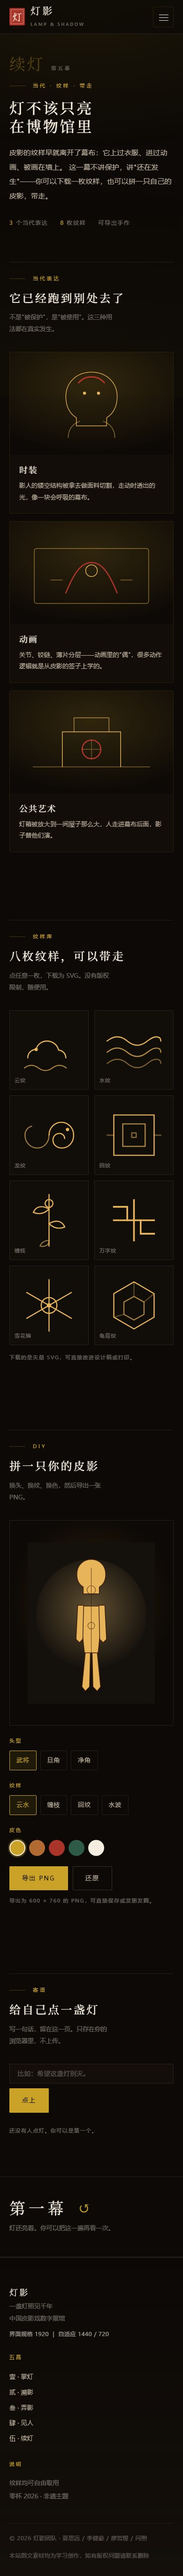
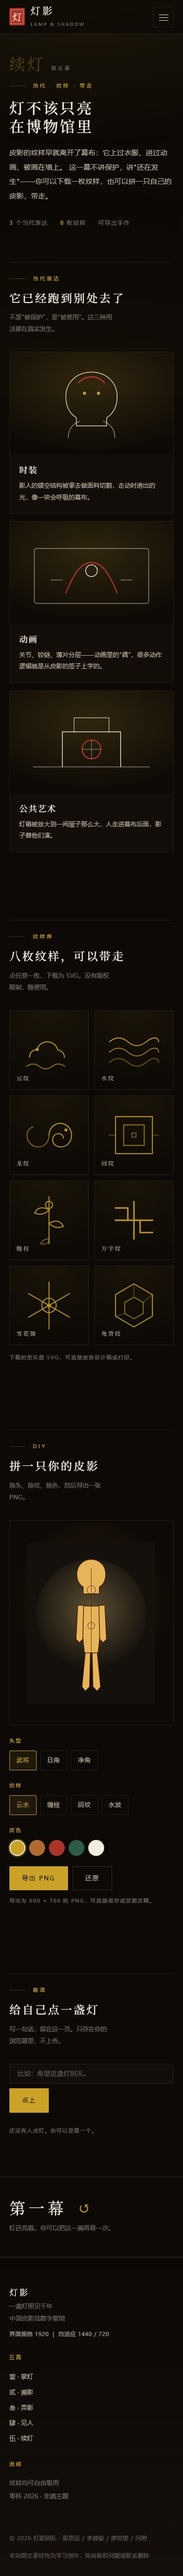
style: 影窗木框与剧场场景重绘，纹样卡与 SVG 色值收口
- 影窗加 14px 深木框 + 内侧金线 + 上下内阴影，影子终于像装进窗里
- 剧场场景重绘：月轮、祥云、三层山、台沿栏杆、双影人（冠与头衔接修正）
- 三出戏用 ::after 晕色 + scene-accent 分组区分（劈山红光 / 断桥绿意）
- 纹样卡加暖底渐变、宋体名称、悬停微放大
- HTML 内联 SVG 的旧金色 #E8B45A 等全部换为新调色板（17 处）
- 回归：30 组 0 报错 0 溢出

diff --git a/web/future.html b/web/future.html
@@ -72,12 +72,12 @@
       <div class="cases">
         <article class="case reveal">
           <div class="case__art" aria-hidden="true">
-            <svg viewBox="0 0 280 175" width="100%" height="100%" fill="none" stroke="#E8B45A" stroke-width="1.2" stroke-linecap="round" stroke-linejoin="round">
+            <svg viewBox="0 0 280 175" width="100%" height="100%" fill="none" stroke="currentColor" stroke-width="1.2" stroke-linecap="round" stroke-linejoin="round">
               <path d="M140 34c26 0 44 18 44 42 0 18-8 30-18 36v14h-52v-14c-10-6-18-18-18-36 0-24 18-42 44-42z" opacity=".9"/>
               <path d="M100 146c0-14 8-24 20-28M180 146c0-14-8-24-20-28" opacity=".6"/>
-              <path d="M118 52c8-8 14-10 22-10s14 2 22 10" stroke="#B4352B" stroke-width="2.4"/>
-              <circle cx="128" cy="70" r="2.6" fill="#E8B45A" stroke="none"/>
-              <circle cx="152" cy="70" r="2.6" fill="#E8B45A" stroke="none"/>
+              <path d="M118 52c8-8 14-10 22-10s14 2 22 10" stroke="#A8342A" stroke-width="2.4"/>
+              <circle cx="128" cy="70" r="2.6" fill="#C9A227" stroke="none"/>
+              <circle cx="152" cy="70" r="2.6" fill="#C9A227" stroke="none"/>
             </svg>
           </div>
           <div class="case__body">
@@ -88,9 +88,9 @@
 
         <article class="case reveal">
           <div class="case__art" aria-hidden="true">
-            <svg viewBox="0 0 280 175" width="100%" height="100%" fill="none" stroke="#E8B45A" stroke-width="1.2" stroke-linecap="round">
+            <svg viewBox="0 0 280 175" width="100%" height="100%" fill="none" stroke="currentColor" stroke-width="1.2" stroke-linecap="round">
               <rect x="42" y="46" width="196" height="94" rx="4" opacity=".55"/>
-              <path d="M96 122c14-34 26-52 44-52s30 18 44 52" stroke="#B4352B" stroke-width="2"/>
+              <path d="M96 122c14-34 26-52 44-52s30 18 44 52" stroke="#A8342A" stroke-width="2"/>
               <path d="M70 100h20M190 100h20" opacity=".5"/>
               <circle cx="140" cy="84" r="10"/>
             </svg>
@@ -103,11 +103,11 @@
 
         <article class="case reveal">
           <div class="case__art" aria-hidden="true">
-            <svg viewBox="0 0 280 175" width="100%" height="100%" fill="none" stroke="#E8B45A" stroke-width="1.2" stroke-linecap="round">
+            <svg viewBox="0 0 280 175" width="100%" height="100%" fill="none" stroke="currentColor" stroke-width="1.2" stroke-linecap="round">
               <path d="M40 130h200" opacity=".5"/>
               <path d="M90 130V70h100v60" />
               <path d="M110 70V46h60v24" opacity=".7"/>
-              <circle cx="140" cy="100" r="16" stroke="#B4352B" stroke-width="2"/>
+              <circle cx="140" cy="100" r="16" stroke="#A8342A" stroke-width="2"/>
               <path d="M124 100h32M140 84v32" opacity=".4"/>
             </svg>
           </div>
@@ -132,16 +132,16 @@
 
       <div class="patterns" id="patterns">
         <button class="pattern" type="button" data-name="云纹">
-          <svg viewBox="0 0 120 120" fill="none" stroke="#E8B45A" stroke-width="2" stroke-linecap="round">
+          <svg viewBox="0 0 120 120" fill="none" stroke="currentColor" stroke-width="2" stroke-linecap="round">
             <path d="M22 74c0-9 7-15 15-15 2-9 10-15 19-15 11 0 19 7 21 16 8 1 13 7 13 14"/>
             <path d="M16 92c8-6 17-6 25 0s17 6 25 0 17-6 25 0" opacity=".7"/>
-            <circle cx="37" cy="59" r="2" fill="#E8B45A"/>
+            <circle cx="37" cy="59" r="2" fill="#C9A227"/>
           </svg>
           <span class="pattern__name">云纹</span>
         </button>
 
         <button class="pattern" type="button" data-name="水纹">
-          <svg viewBox="0 0 120 120" fill="none" stroke="#E8B45A" stroke-width="2" stroke-linecap="round">
+          <svg viewBox="0 0 120 120" fill="none" stroke="currentColor" stroke-width="2" stroke-linecap="round">
             <path d="M12 44c12-10 24-10 36 0s24 10 36 0 24-10 24 0"/>
             <path d="M12 64c12-10 24-10 36 0s24 10 36 0 24-10 24 0" opacity=".75"/>
             <path d="M12 84c12-10 24-10 36 0s24 10 36 0 24-10 24 0" opacity=".5"/>
@@ -150,16 +150,16 @@
         </button>
 
         <button class="pattern" type="button" data-name="龙纹">
-          <svg viewBox="0 0 120 120" fill="none" stroke="#E8B45A" stroke-width="2" stroke-linecap="round">
+          <svg viewBox="0 0 120 120" fill="none" stroke="currentColor" stroke-width="2" stroke-linecap="round">
             <path d="M60 60c0-13 10-23 22-23s22 10 22 23-9 23-21 23c-9 0-16-6-16-14 0-7 5-12 12-12 5 0 9 4 9 9"/>
             <path d="M60 60c0 13-9 23-21 23S17 73 17 60c0-8 5-14 12-16" opacity=".65"/>
-            <circle cx="93" cy="50" r="2" fill="#E8B45A"/>
+            <circle cx="93" cy="50" r="2" fill="#C9A227"/>
           </svg>
           <span class="pattern__name">龙纹</span>
         </button>
 
         <button class="pattern" type="button" data-name="回纹">
-          <svg viewBox="0 0 120 120" fill="none" stroke="#E8B45A" stroke-width="2" stroke-linecap="square">
+          <svg viewBox="0 0 120 120" fill="none" stroke="currentColor" stroke-width="2" stroke-linecap="square">
             <path d="M24 24h72v72H24z"/>
             <path d="M40 40h40v40H40z" opacity=".75"/>
             <path d="M56 56h8v8h-8z" opacity=".55"/>
@@ -169,7 +169,7 @@
         </button>
 
         <button class="pattern" type="button" data-name="缠枝">
-          <svg viewBox="0 0 120 120" fill="none" stroke="#E8B45A" stroke-width="2" stroke-linecap="round">
+          <svg viewBox="0 0 120 120" fill="none" stroke="currentColor" stroke-width="2" stroke-linecap="round">
             <path d="M60 14v92"/>
             <path d="M60 40c-14-8-24-4-28 6 10 4 20 2 28-6z"/>
             <path d="M60 66c14-8 24-4 28 6-10 4-20 2-28-6z"/>
@@ -180,7 +180,7 @@
         </button>
 
         <button class="pattern" type="button" data-name="万字纹">
-          <svg viewBox="0 0 120 120" fill="none" stroke="#E8B45A" stroke-width="3" stroke-linecap="square">
+          <svg viewBox="0 0 120 120" fill="none" stroke="currentColor" stroke-width="3" stroke-linecap="square">
             <path d="M24 60h72M60 24v72"/>
             <path d="M24 36h24v24M96 84H72V60"/>
           </svg>
@@ -188,16 +188,16 @@
         </button>
 
         <button class="pattern" type="button" data-name="雪花锦">
-          <svg viewBox="0 0 120 120" fill="none" stroke="#E8B45A" stroke-width="2" stroke-linecap="round">
+          <svg viewBox="0 0 120 120" fill="none" stroke="currentColor" stroke-width="2" stroke-linecap="round">
             <path d="M60 14v92M20 37l80 46M100 37L20 83"/>
             <circle cx="60" cy="60" r="14"/>
-            <circle cx="60" cy="60" r="3" fill="#E8B45A"/>
+            <circle cx="60" cy="60" r="3" fill="#C9A227"/>
           </svg>
           <span class="pattern__name">雪花锦</span>
         </button>
 
         <button class="pattern" type="button" data-name="龟背纹">
-          <svg viewBox="0 0 120 120" fill="none" stroke="#E8B45A" stroke-width="2" stroke-linejoin="round">
+          <svg viewBox="0 0 120 120" fill="none" stroke="currentColor" stroke-width="2" stroke-linejoin="round">
             <path d="M60 18 96 39v42L60 102 24 81V39z"/>
             <path d="M60 44 78 54v22L60 86 42 76V54z" opacity=".7"/>
             <path d="M60 18v26M96 39 78 54M24 81l18-5" opacity=".35"/>
@@ -224,8 +224,8 @@
           <svg id="diySvg" viewBox="0 0 300 380" role="img" aria-label="DIY 皮影预览">
             <defs>
               <radialGradient id="diyGlow" cx="50%" cy="45%" r="55%">
-                <stop offset="0" stop-color="#F2C879" stop-opacity=".35"/>
-                <stop offset="1" stop-color="#F2C879" stop-opacity="0"/>
+                <stop offset="0" stop-color="#E0C27A" stop-opacity=".35"/>
+                <stop offset="1" stop-color="#E0C27A" stop-opacity="0"/>
               </radialGradient>
             </defs>
             <rect width="300" height="380" fill="#14100C"/>
@@ -288,10 +288,10 @@
           <div class="diy__group">
             <p class="diy__label">皮色</p>
             <div class="swatches" id="colorChoices">
-              <button class="swatch sw--lamp" type="button" data-color="#E8B45A" aria-pressed="true" aria-label="灯黄"></button>
+              <button class="swatch sw--lamp" type="button" data-color="#C9A227" aria-pressed="true" aria-label="灯黄"></button>
               <button class="swatch sw--ochre" type="button" data-color="#C97B32" aria-pressed="false" aria-label="赭石"></button>
-              <button class="swatch sw--cinnabar" type="button" data-color="#B4352B" aria-pressed="false" aria-label="朱砂"></button>
-              <button class="swatch sw--jade" type="button" data-color="#2E6B4F" aria-pressed="false" aria-label="青绿"></button>
+              <button class="swatch sw--cinnabar" type="button" data-color="#A8342A" aria-pressed="false" aria-label="朱砂"></button>
+              <button class="swatch sw--jade" type="button" data-color="#2E5B47" aria-pressed="false" aria-label="青绿"></button>
               <button class="swatch sw--paper" type="button" data-color="#F3EADC" aria-pressed="false" aria-label="纸白"></button>
             </div>
           </div>

diff --git a/web/play.html b/web/play.html
@@ -78,7 +78,7 @@
                 <defs>
                   <linearGradient id="leather" x1="0" y1="0" x2="0" y2="1">
                     <stop offset="0" stop-color="#F6D49A"/>
-                    <stop offset=".55" stop-color="#E8B45A"/>
+                    <stop offset=".55" stop-color="#C9A227"/>
                     <stop offset="1" stop-color="#B8722C"/>
                   </linearGradient>
                 </defs>
@@ -213,34 +213,71 @@
         <div class="screen">
           <div class="screen__scene" id="scene" data-scene="0">
             <svg viewBox="0 0 800 450" role="img" aria-label="影窗中的戏台画面">
-              <defs>
-                <linearGradient id="sky" x1="0" y1="0" x2="0" y2="1">
-                  <stop offset="0" stop-color="#F7DCAE"/>
-                  <stop offset="1" stop-color="#B06A2A"/>
-                </linearGradient>
-              </defs>
-              <rect width="800" height="450" fill="url(#sky)"/>
-              <circle cx="600" cy="110" r="64" fill="#FFF3DC" opacity=".35"/>
-              <circle cx="600" cy="110" r="36" fill="#FFFBF0" opacity=".9"/>
-              <path d="M0 320 L150 232 L268 318 L392 240 L520 326 L640 268 L800 340 V450 H0 Z" fill="#3A2010"/>
-              <path d="M0 372 L120 330 L240 376 L380 328 L520 382 L660 340 L800 386 V450 H0 Z" fill="#241408"/>
-              <g opacity=".9" transform="translate(120 120) scale(.9)">
-                <path d="M40 150c0-22 16-34 34-34h34c18 0 34 12 34 34v26H40z" fill="#2A1B10"/>
-                <path d="M78 116V88l32-14 32 14v28" fill="none" stroke="#3A2416" stroke-width="3"/>
-              </g>
-              <g fill="#0D0906" opacity=".85">
-                <ellipse cx="330" cy="392" rx="40" ry="6"/>
-                <ellipse cx="470" cy="392" rx="40" ry="6"/>
-              </g>
-              <g id="scenePuppetA" fill="#1E1008" opacity=".95">
-                <path d="M330 250c14 0 24 10 24 24s-10 26-24 26-24-12-24-26 10-24 24-24z"/>
-                <path d="M306 302h48l8 96h-64z"/>
-              </g>
-              <g id="scenePuppetB" fill="#1E1008" opacity=".85">
-                <path d="M470 268c12 0 21 9 21 21s-9 23-21 23-21-11-21-23 9-21 21-21z"/>
-                <path d="M451 314h38l6 84h-50z"/>
-              </g>
-            </svg>
+                <defs>
+                  <radialGradient id="sky" cx=".5" cy=".34" r=".78">
+                    <stop offset="0" stop-color="#FCE9C8"/>
+                    <stop offset=".4" stop-color="#F0C98A"/>
+                    <stop offset=".76" stop-color="#B0723B"/>
+                    <stop offset="1" stop-color="#552C14"/>
+                  </radialGradient>
+                  <linearGradient id="beam" x1="0" y1="0" x2=".55" y2="1">
+                    <stop offset="0" stop-color="#FFF6DE" stop-opacity=".55"/>
+                    <stop offset="1" stop-color="#FFF6DE" stop-opacity="0"/>
+                  </linearGradient>
+                </defs>
+
+                <rect width="800" height="450" fill="url(#sky)"/>
+                <path d="M-30 -20 L330 450 H108 Z" fill="url(#beam)" opacity=".5"/>
+
+                <circle cx="618" cy="102" r="56" fill="#FFF6E4" opacity=".26"/>
+                <circle cx="618" cy="102" r="33" fill="#FFFBF0" opacity=".9"/>
+
+                <g fill="none" stroke="#8C4A1E" stroke-opacity=".30" stroke-width="3" stroke-linecap="round">
+                  <path d="M118 146c16-15 42-13 54 2 9-11 30-13 42-2 11 11 7 28-8 32H130c-15-4-21-21-12-32z"/>
+                  <path d="M556 196c13-11 32-9 41 2 8-9 23-10 31-1 8 8 5 21-6 24h-54c-11-3-16-16-12-25z"/>
+                </g>
+
+                <path d="M0 302 L122 228 L216 294 L320 216 L422 298 L522 238 L622 302 L722 246 L800 298 V450 H0 Z" fill="#4A2A14" opacity=".5"/>
+                <path d="M0 346 L142 290 L264 350 L394 294 L518 354 L642 302 L800 358 V450 H0 Z" fill="#2C1709" opacity=".92"/>
+                <path d="M0 394 H800 V450 H0 Z" fill="#180C05"/>
+
+                <g stroke="#0E0704" stroke-width="5" stroke-linecap="round" opacity=".92">
+                  <path d="M0 394 H800"/>
+                  <path d="M44 394 V436 M204 394 V436 M364 394 V436 M524 394 V436 M684 394 V436"/>
+                </g>
+
+                <g id="scenePuppetA" fill="#120A05">
+                  <path d="M330 222 l5-20 9 9 9-18 9 18 9-9 5 20z"/>
+                  <circle cx="330" cy="236" r="20"/>
+                  <path d="M312 262 h36 l12 66 -6 30 h-48l-6-30z"/>
+                  <path d="M312 266 l-30 58 9 7 27-50z"/>
+                  <path d="M348 266 l34 50 -9 9 -31-48z"/>
+                  <path d="M302 358 h20 l-2 30 h-16z"/>
+                  <path d="M338 358 h20 l-2 30 h-16z"/>
+                </g>
+
+                <g id="scenePuppetB" fill="#180E07" opacity=".9">
+                  <path d="M470 238 l4-16 7 7 7-14 7 14 7-7 4 16z"/>
+                  <circle cx="470" cy="248" r="16"/>
+                  <path d="M456 270 h28 l10 56 -5 24 h-38l-5-24z"/>
+                  <path d="M456 274 l-24 46 7 6 22-40z"/>
+                  <path d="M484 274 l26 40 -7 7 -24-38z"/>
+                  <path d="M448 350 h16 l-2 26 h-12z"/>
+                  <path d="M476 350 h16 l-2 26 h-12z"/>
+                </g>
+
+                <g class="scene-accent" data-for="1">
+                  <path d="M418 316 L398 214 L432 258 L424 316 Z" fill="#C0392B" opacity=".38"/>
+                  <path d="M418 316 L398 214 L432 258 L424 316 Z" fill="none" stroke="#C9A227" stroke-opacity=".45" stroke-width="2"/>
+                  <path d="M560 330 l26 -22 18 22 -14 -6 -8 16 -6 -12z" fill="#2C1709"/>
+                </g>
+
+                <g class="scene-accent" data-for="2">
+                  <path d="M470 392 C470 322 610 322 610 392" fill="none" stroke="#180C05" stroke-width="10"/>
+                  <path d="M470 392 C470 322 610 322 610 392" fill="none" stroke="#C9A227" stroke-opacity=".22" stroke-width="2"/>
+                  <path d="M440 412 H640 M470 424 H610" stroke="#C9A227" stroke-opacity=".18" stroke-width="2"/>
+                </g>
+              </svg>
           </div>
           <div class="screen__vignette" aria-hidden="true"></div>
           <div class="screen__subtitles" aria-live="polite">

diff --git a/web/assets/css/components.css b/web/assets/css/components.css
@@ -520,13 +520,48 @@
 .screen {
   position: relative;
   aspect-ratio: 16 / 9;
-  border: 1px solid var(--hair);
   border-radius: var(--r-sm);
   overflow: hidden;
-  background: #0D0906;
+  background: #0B0603;
+  box-shadow: 0 60px 100px -70px #000, 0 0 0 1px rgba(201, 162, 39, .16);
+}
+/* 影窗木框：12px 深木边 + 内侧一道金线，影子才有"装进框里"的感觉 */
+.screen::before {
+  content: "";
+  position: absolute;
+  inset: 0;
+  z-index: 6;
+  pointer-events: none;
+  border: 14px solid #2A180C;
+  border-radius: var(--r-sm);
+  box-shadow:
+    inset 0 0 0 1px rgba(201, 162, 39, .45),
+    inset 0 14px 30px -16px rgba(0, 0, 0, .92),
+    inset 0 -14px 30px -16px rgba(0, 0, 0, .92);
 }
 .screen__scene { position: absolute; inset: 0; }
 .screen__scene svg { width: 100%; height: 100%; }
+
+/* 三出戏共用山野底，靠这一层晕色与点缀分组区分 */
+.screen__scene::after {
+  content: "";
+  position: absolute;
+  inset: 0;
+  pointer-events: none;
+  opacity: 0;
+  transition: opacity var(--t-slow) var(--ease);
+}
+.screen__scene[data-scene="1"]::after {
+  opacity: 1;
+  background: radial-gradient(58% 62% at 54% 46%, rgba(192, 57, 43, .22), transparent 68%);
+}
+.screen__scene[data-scene="2"]::after {
+  opacity: 1;
+  background: radial-gradient(70% 60% at 50% 84%, rgba(46, 91, 71, .26), transparent 70%);
+}
+.scene-accent { display: none; }
+.screen__scene[data-scene="1"] .scene-accent[data-for="1"],
+.screen__scene[data-scene="2"] .scene-accent[data-for="2"] { display: block; }
 .screen__vignette {
   position: absolute;
   inset: 0;
@@ -538,11 +573,20 @@
   left: 0;
   right: 0;
   bottom: 0;
-  padding: 18px 22px 20px;
-  min-height: 88px;
+  padding: 26px 26px 24px;
+  min-height: 104px;
   display: flex;
   align-items: flex-end;
-  background: linear-gradient(180deg, transparent, rgba(13, 9, 6, .85));
+  background: linear-gradient(180deg, transparent, rgba(10, 6, 3, .82) 62%);
+}
+.screen__subtitles::before {
+  content: "";
+  position: absolute;
+  left: 26px;
+  right: 26px;
+  bottom: 88px;
+  height: 1px;
+  background: linear-gradient(90deg, transparent, rgba(201, 162, 39, .28), transparent);
 }
 .screen__subtitles p {
   font-family: var(--serif);
@@ -726,23 +770,31 @@
 .pattern {
   aspect-ratio: 1;
   border: 1px solid var(--hair);
-  border-radius: 2px;
-  background: rgba(26, 20, 14, .4);
+  border-radius: var(--r-sm);
+  background: radial-gradient(120% 100% at 50% 0%, rgba(201, 162, 39, .08), rgba(12, 9, 6, .55));
   display: grid;
   place-items: center;
-  padding: 12px;
+  padding: 18px;
   position: relative;
-  transition: border-color .25s var(--ease), background .25s var(--ease);
+  transition: border-color var(--t-base) var(--ease), background var(--t-base) var(--ease);
 }
-.pattern:hover { border-color: var(--line-strong); background: rgba(201, 162, 39, .07); }
-.pattern svg { width: 100%; height: 100%; }
+.pattern:hover { border-color: var(--line-strong); background: radial-gradient(120% 100% at 50% 0%, rgba(201, 162, 39, .14), rgba(12, 9, 6, .6)); }
+.pattern svg {
+  width: 100%;
+  height: 100%;
+  color: var(--lamp);
+  opacity: .88;
+  transition: transform var(--t-slow) var(--ease), opacity var(--t-base) var(--ease);
+}
+.pattern:hover svg { opacity: 1; transform: scale(1.05); }
 .pattern__name {
   position: absolute;
-  left: 10px;
-  bottom: 8px;
-  font-size: 10.5px;
-  letter-spacing: .14em;
-  color: var(--paper-faint);
+  left: 14px;
+  bottom: 12px;
+  font-family: var(--serif);
+  font-size: 12px;
+  letter-spacing: .2em;
+  color: var(--paper-dim);
 }
 
 /* ---------- DIY ---------- */

diff --git a/README.md b/README.md
@@ -207,6 +207,7 @@ node tools/anonymize.mjs web dist/匿名版
 | 2026-10-20 | M1：抽出 `tokens.css` 设计变量层、清空全部 16 处内联样式；重绘皮影本体（冠 / 靠子 / 护心镜 / 甲片 / 靴 + 眼口镂空），加三根操纵签并随手联动 |
 | 2026-10-20 | M1+：全站视觉重构 v2「宋刻暗金」——更深的墨与更哑的旧金、字阶与间距重排、入口/流派/印章去色块改细线、按钮与标签去圆角 |
 | 2026-10-20 | M1++：组件层重构——七道工序改刻本式表格、工具墙改实物陈列排（说明常显）、传承人卡改档案照式证件框 |
+| 2026-10-20 | M1+++：影窗加木框与金线、剧场场景重绘（月/云/三层山/栏杆/双影人，三出戏各有晕色与点缀）、纹样卡加暖底与宋体名 |
 
 ---
 
